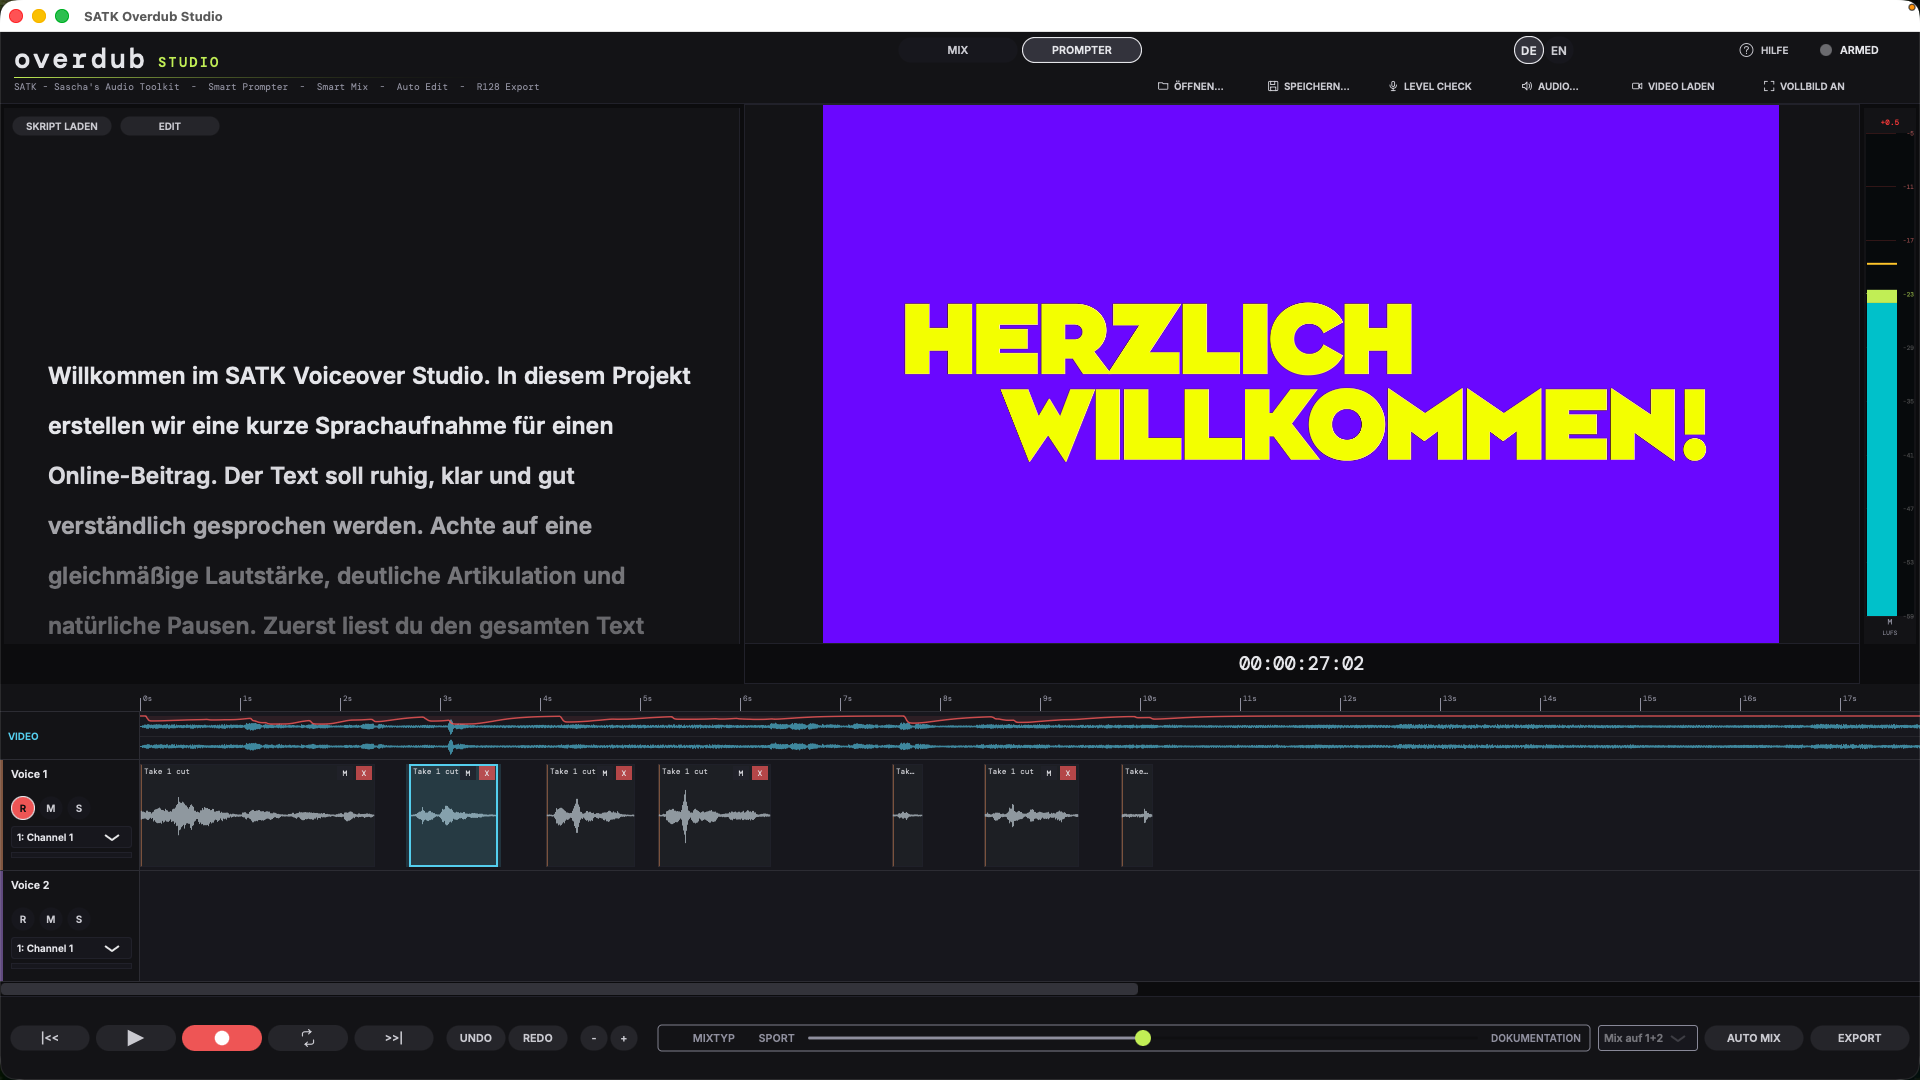
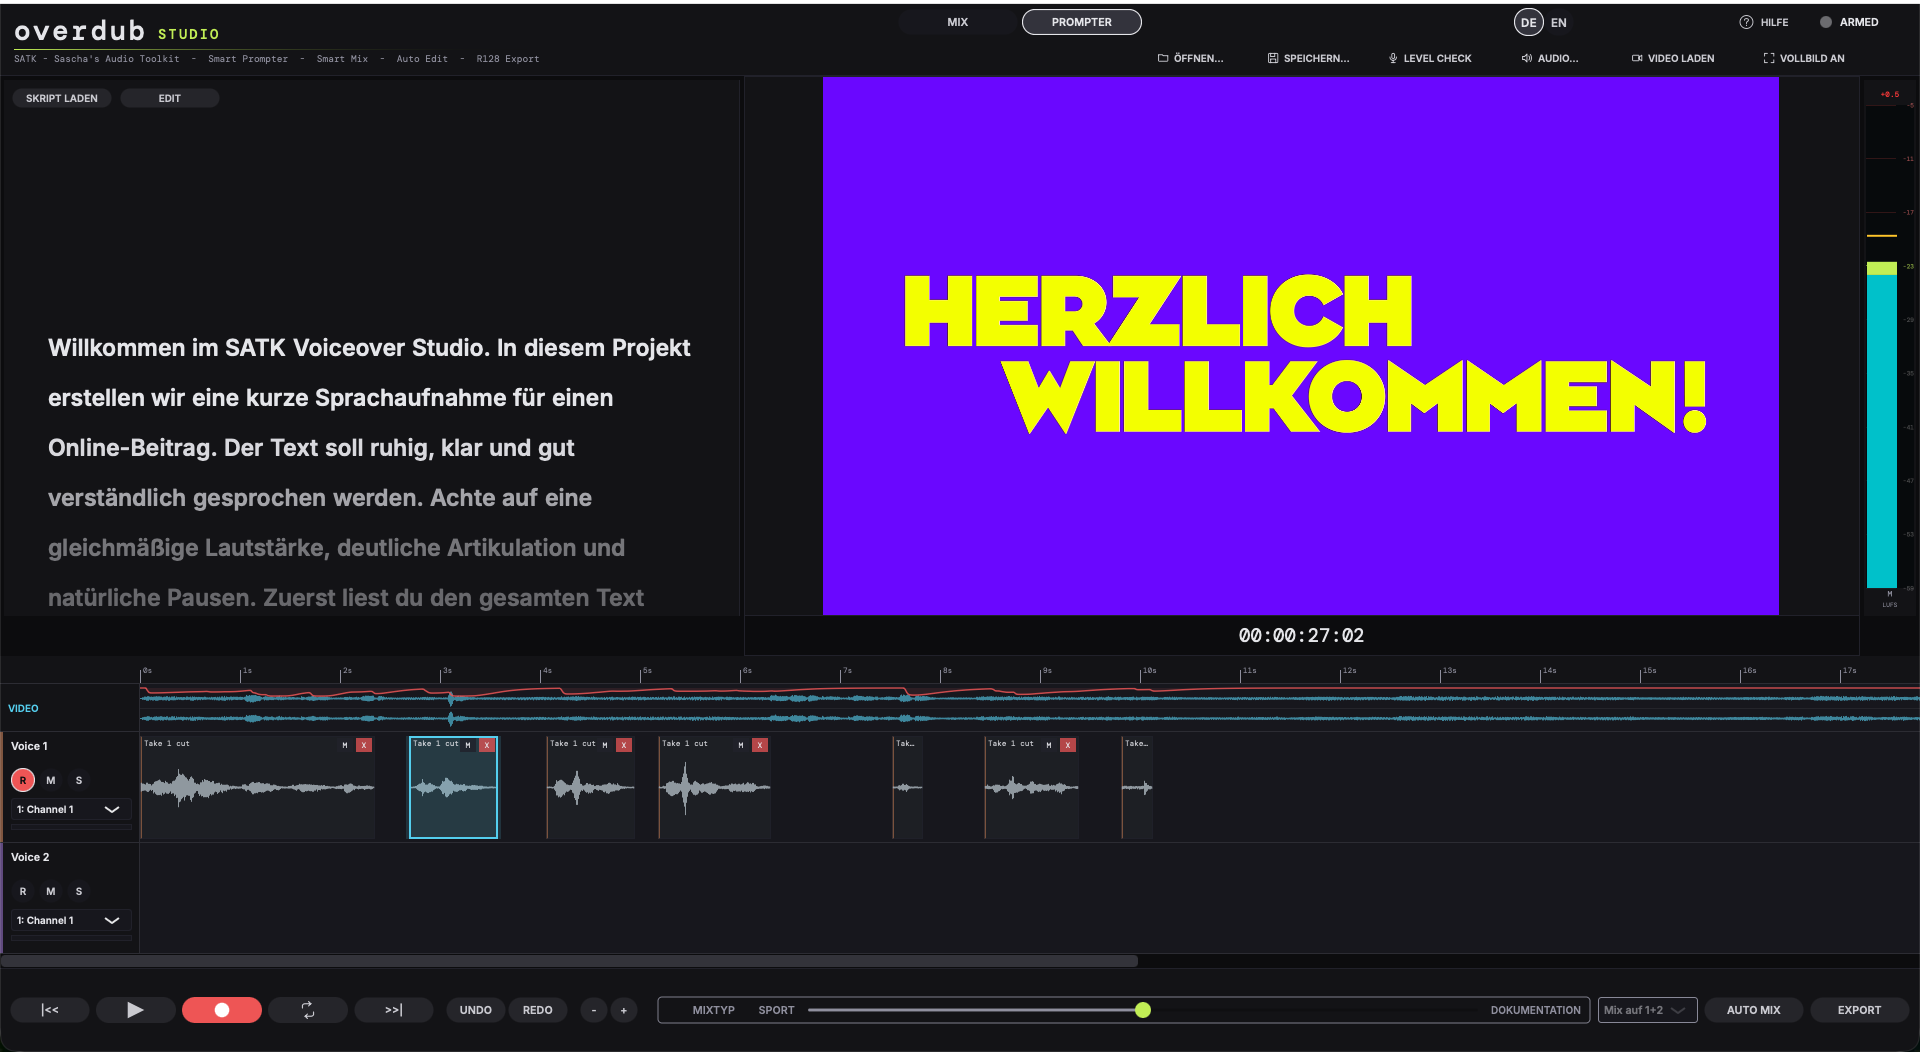
OD-Screenshots: macOS-Titelleiste cropped + Prompter-Figure mit Subtext
Cropping:
  beide Bilder oben 28px abgeschnitten — macOS-Window-Chrome
  (Ampel-Buttons + Window-Titel) raus, Bild startet direkt mit
  dem App-Header. Sieht in der Marketing-Verwendung sauberer aus
  und identifiziert das App-UI deutlicher (statt mit OS-Frame
  abzulenken).

Prompter-Figure (overdub-studio-pro.html) jetzt mit:
  - Eyebrow "Smart Prompter · Detailansicht" (akzentfarben)
  - Erklär-Paragraph (paraphrasiert die existierende Feature-Card)
  - Caption "Aufgenommen im SATK Overdub Studio — macOS-Version"
  - i18n DE + EN

Dateigroessen nach Crop:
  img-overdub-studio.png            204 → 160 KB
  img-overdub-studio.webp            56 →  53 KB
  img-overdub-studio-prompter.png   229 → 187 KB
  img-overdub-studio-prompter.webp   72 →  70 KB

diff --git a/overdub-studio-pro.html b/overdub-studio-pro.html
@@ -95,7 +95,9 @@ nav{position:sticky;top:0;z-index:100;display:flex;align-items:center;justify-co
 
 .hero-img-wrap{max-width:1120px;margin:32px auto 0;padding:0 32px}
 .hero-img{width:100%;border:1px solid var(--bd);border-radius:10px;display:block;box-shadow:0 30px 80px rgba(0,0,0,.5)}
-.prompter-figure{max-width:720px;margin:48px auto 0;padding:0 32px}
+.prompter-figure{max-width:720px;margin:64px auto 0;padding:0 32px;text-align:center}
+.prompter-figure .prompter-eyebrow{font-family:'DM Mono',monospace;font-size:10px;letter-spacing:.3em;text-transform:uppercase;color:var(--ac);margin-bottom:10px}
+.prompter-figure .prompter-sub{font-size:12px;color:var(--mu2);line-height:1.7;letter-spacing:.2px;max-width:540px;margin:0 auto 24px}
 .prompter-figure img{width:100%;border:1px solid var(--bd);border-radius:8px;display:block;box-shadow:0 20px 50px rgba(0,0,0,.4)}
 .prompter-figure figcaption{font-family:'DM Mono',monospace;font-size:10px;letter-spacing:.3em;text-transform:uppercase;color:var(--mu);text-align:center;margin-top:14px}
 
@@ -249,8 +251,10 @@ footer{padding:72px 48px 36px;margin-top:120px;border-top:1px solid rgba(255,255
   </div>
 
   <figure class="prompter-figure">
+    <div class="prompter-eyebrow" data-i18n="od_prompter_eyebrow">Smart Prompter · Detailansicht</div>
+    <p class="prompter-sub" data-i18n="od_prompter_sub">Skript links, Video rechts. Der Text scrollt automatisch mit deiner Stimme – du behältst die Leseposition, ohne mit der Maus zu navigieren.</p>
     <img src="img-overdub-studio-prompter.webp" loading="lazy" alt="SATK Overdub Studio — Prompter-Ansicht: Skript links, Video rechts, Text läuft mit der Stimme mit">
-    <figcaption data-i18n="od_prompter_caption">Prompter-Ansicht — Text läuft mit deiner Stimme</figcaption>
+    <figcaption data-i18n="od_prompter_caption">Aufgenommen im SATK Overdub Studio — macOS-Version</figcaption>
   </figure>
 </section>
 
@@ -384,7 +388,9 @@ const i18n = {
     od_f5_p: 'Video laden, abspielen, vertonen. MXF bleibt beim Import und Export vollständig erhalten. Alles bleibt synchron, der Timecode ist immer im Blick.',
     od_f6_h: 'Aufnehmen ohne Umwege',
     od_f6_p: 'Pre-Roll, klare Pegelanzeige und direktes Monitoring – so einfach wie ein Take im Studio.',
-    od_prompter_caption: 'Prompter-Ansicht — Text läuft mit deiner Stimme',
+    od_prompter_eyebrow: 'Smart Prompter · Detailansicht',
+    od_prompter_sub: 'Skript links, Video rechts. Der Text scrollt automatisch mit deiner Stimme – du behältst die Leseposition, ohne mit der Maus zu navigieren.',
+    od_prompter_caption: 'Aufgenommen im SATK Overdub Studio — macOS-Version',
     od_wf_label: 'Funktionsweise',
     od_wf_title: 'In 4 Schritten zum fertigen Beitrag',
     od_w1_h: 'Video laden',
@@ -443,7 +449,9 @@ const i18n = {
     od_f5_p: 'Load video, play, voice it. MXF stays fully intact on import and export. Everything stays in sync, timecode always visible.',
     od_f6_h: 'Recording without detours',
     od_f6_p: 'Pre-roll, clear level meter, direct monitoring — as simple as a take in the studio.',
-    od_prompter_caption: 'Prompter view — script scrolls with your voice',
+    od_prompter_eyebrow: 'Smart Prompter · Detail view',
+    od_prompter_sub: 'Script on the left, video on the right. The text scrolls with your voice — keep your reading position without touching the mouse.',
+    od_prompter_caption: 'Captured in SATK Overdub Studio — macOS version',
     od_wf_label: 'How it works',
     od_wf_title: 'From video to finished segment in 4 steps',
     od_w1_h: 'Load video',
